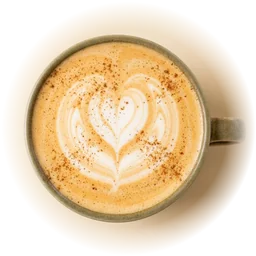
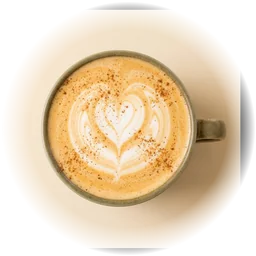
Keep rotary latte art upright; match topdown scale to caramel macchiato

diff --git a/src/components/RotaryTableStage.tsx b/src/components/RotaryTableStage.tsx
@@ -655,6 +655,7 @@ export const RotaryTableStage = memo(function RotaryTableStage({
   const seatWrapperRefs = useRef<(HTMLDivElement | null)[]>([]);
   const seatShadowRefs = useRef<(HTMLDivElement | null)[]>([]);
   const seatBtnRefs = useRef<(HTMLButtonElement | null)[]>([]);
+  const plateImgWrapRefs = useRef<(HTMLSpanElement | null)[]>([]);
 
   const targetWheelAngleRef = useRef<number>(
     computeShortestWheelAngle(
@@ -778,6 +779,16 @@ export const RotaryTableStage = memo(function RotaryTableStage({
             'pointerEvents',
             meta.isFrontCamera || plateOpacityFactor <= 0.02 ? 'none' : 'auto',
           );
+          // Counter-rotate the plate photo against the wheel so the latte
+          // art always faces the viewer upright instead of turning with
+          // the table (plateAngle keeps its small per-item tilt).
+          const plateAngle = meta.items[i]?.plateAngle ?? 0;
+          writeStyleNums(
+            plateImgWrapRefs.current[i],
+            'transform',
+            [state.wheelAngle, plateAngle],
+            () => 'rotate(' + (plateAngle - state.wheelAngle).toFixed(3) + 'deg)',
+          );
         }
       }
 
@@ -874,6 +885,7 @@ export const RotaryTableStage = memo(function RotaryTableStage({
     seatWrapperRefs.current.length = items.length;
     seatShadowRefs.current.length = items.length;
     seatBtnRefs.current.length = items.length;
+    plateImgWrapRefs.current.length = items.length;
     paintFrame(animRef.current);
   }, [
     paintFrame,
@@ -1603,6 +1615,12 @@ export const RotaryTableStage = memo(function RotaryTableStage({
                           className="pointer-events-none absolute inset-[16%] rounded-full border border-[#B5945B]/16 bg-[#E9E4DA]/70"
                         />
                         {!isBroken ? (
+                          <span
+                            ref={(el) => {
+                              plateImgWrapRefs.current[idx] = el;
+                            }}
+                            className="absolute inset-0 block will-change-transform"
+                          >
                           <FadeInImage
                             src={isMobile ? toThumbSrc(item.image) : item.image}
                             fallbackSrc={item.image}
@@ -1624,10 +1642,8 @@ export const RotaryTableStage = memo(function RotaryTableStage({
                                 ? 'eyvan-plate-img-baked'
                                 : 'eyvan-plate-img'
                             } pointer-events-none h-full w-full rounded-full object-cover`}
-                            style={{
-                              transform: `rotate(${item.plateAngle ?? 0}deg)`,
-                            }}
                           />
+                          </span>
                         ) : (
                           <div className="flex h-full w-full items-center justify-center rounded-full border border-[#B5945B]/40 bg-[#FFFFFF] p-4 text-center text-xs font-medium text-[#2F321C]">
                             {item.name}
